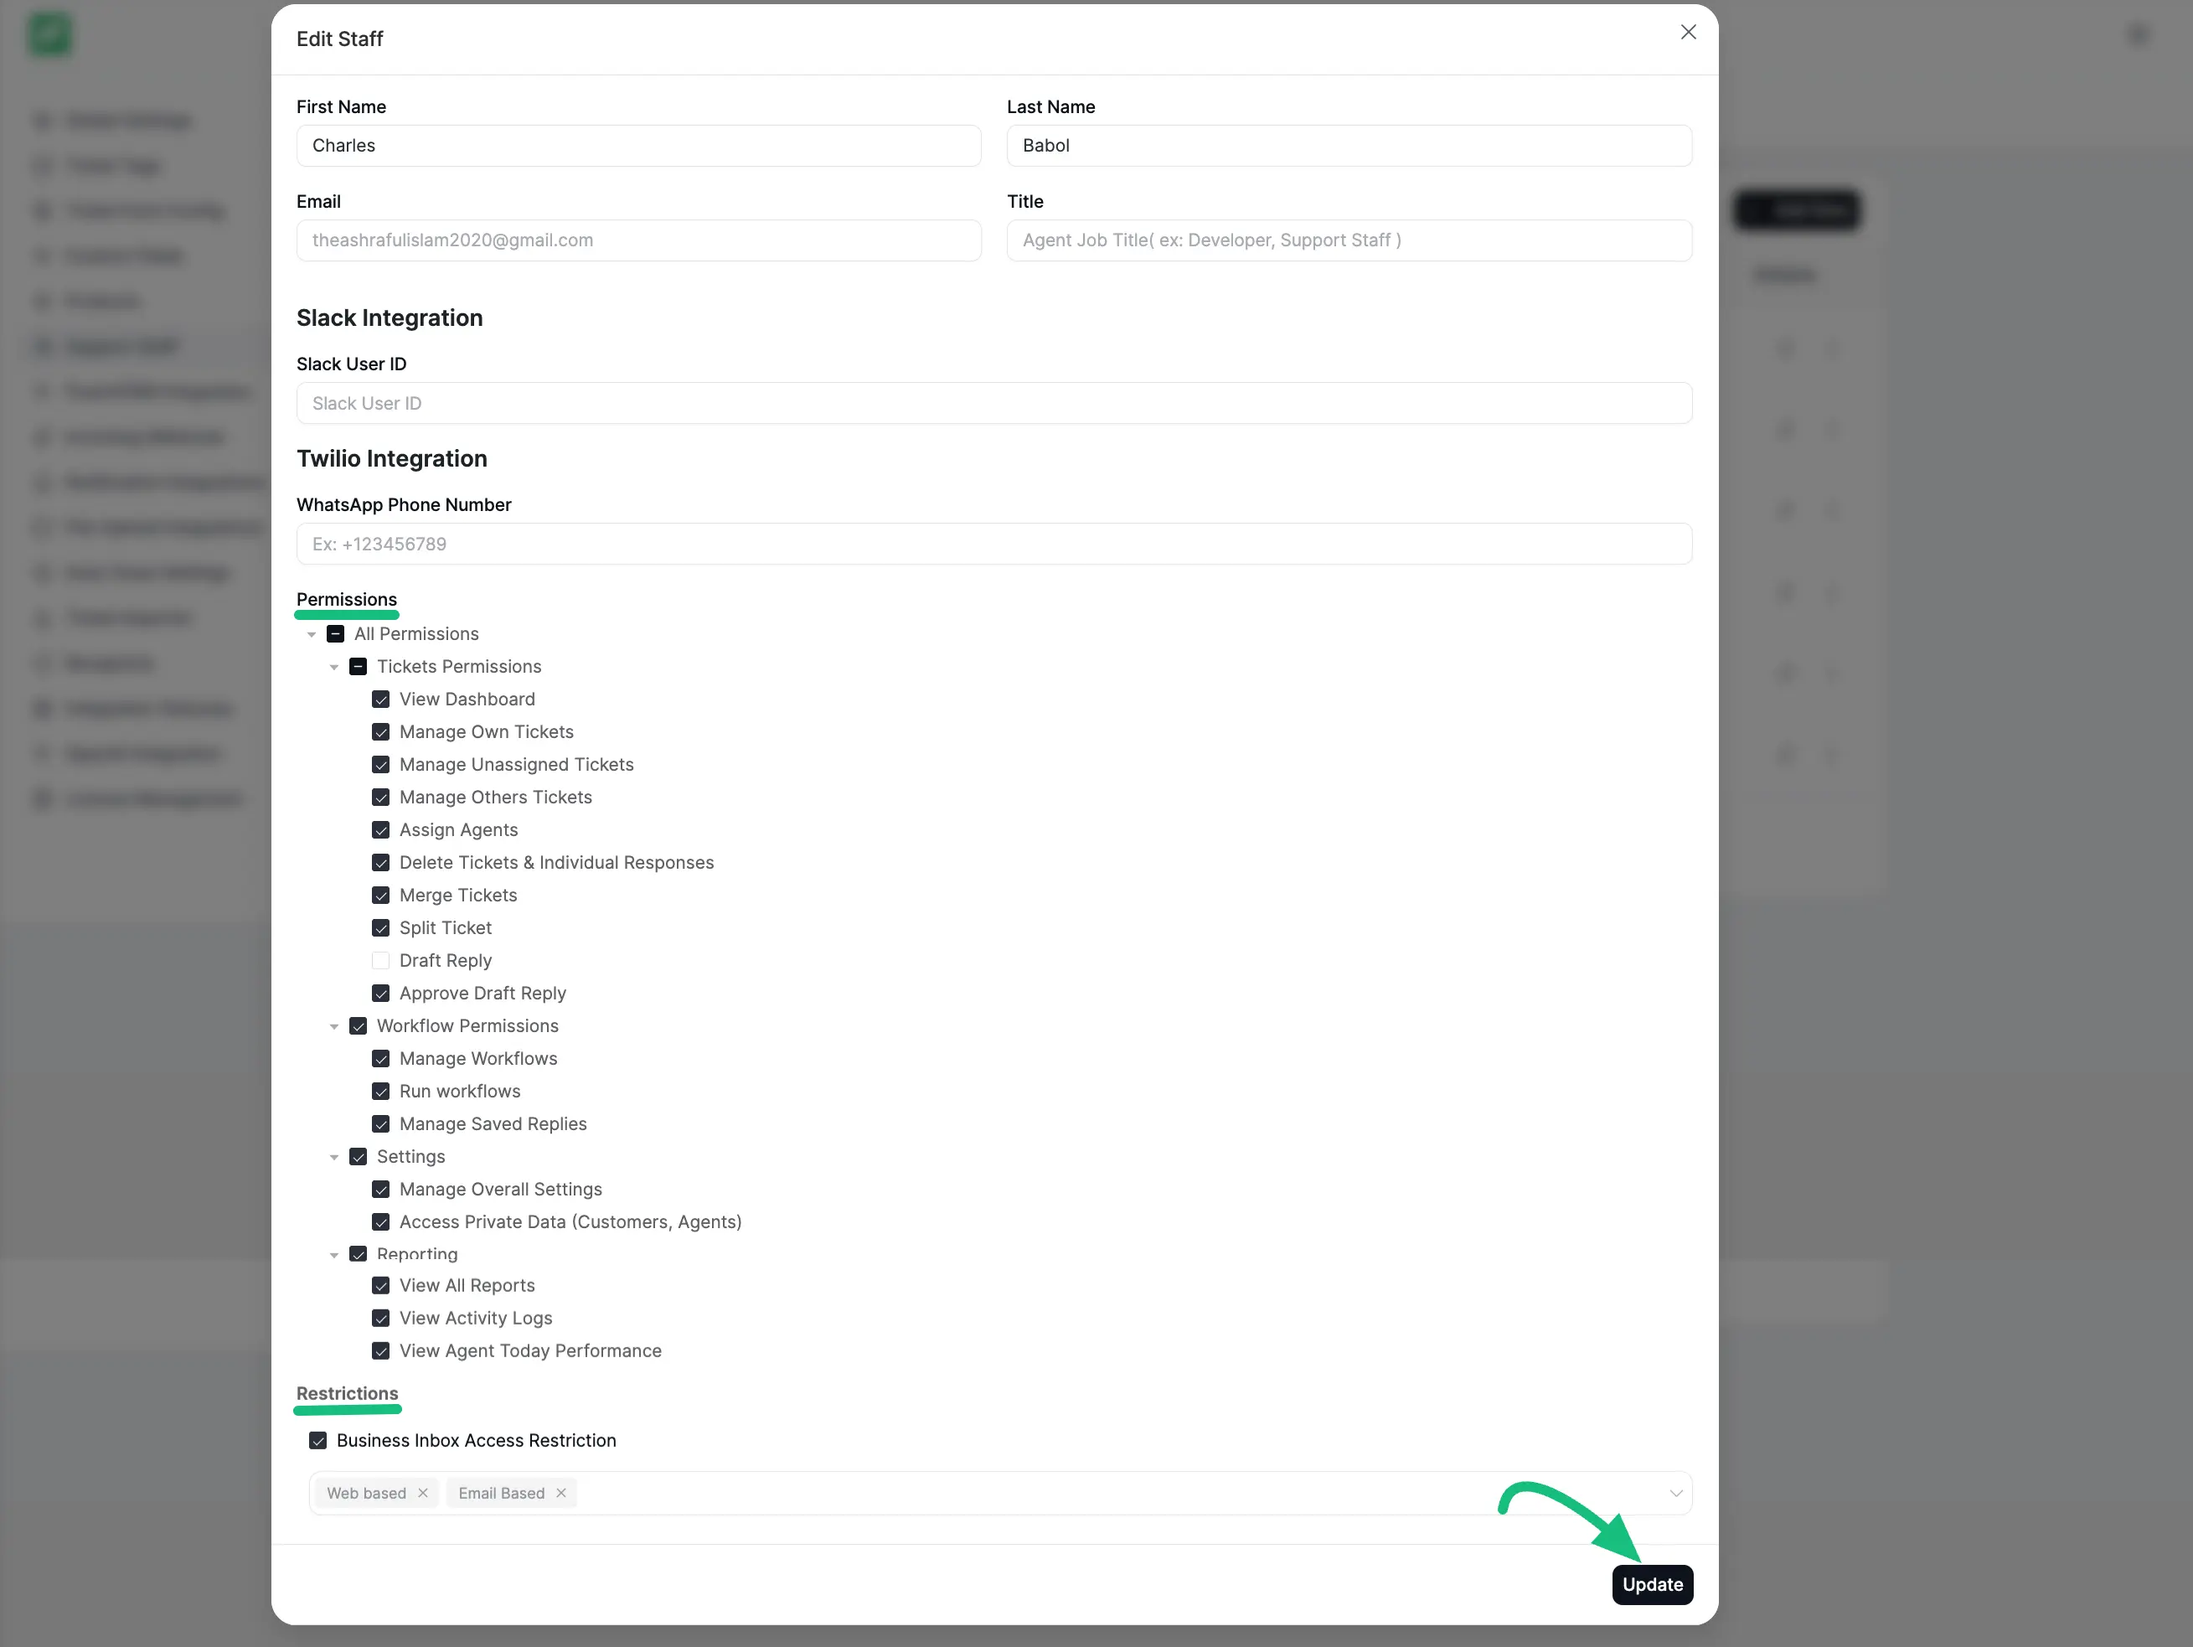
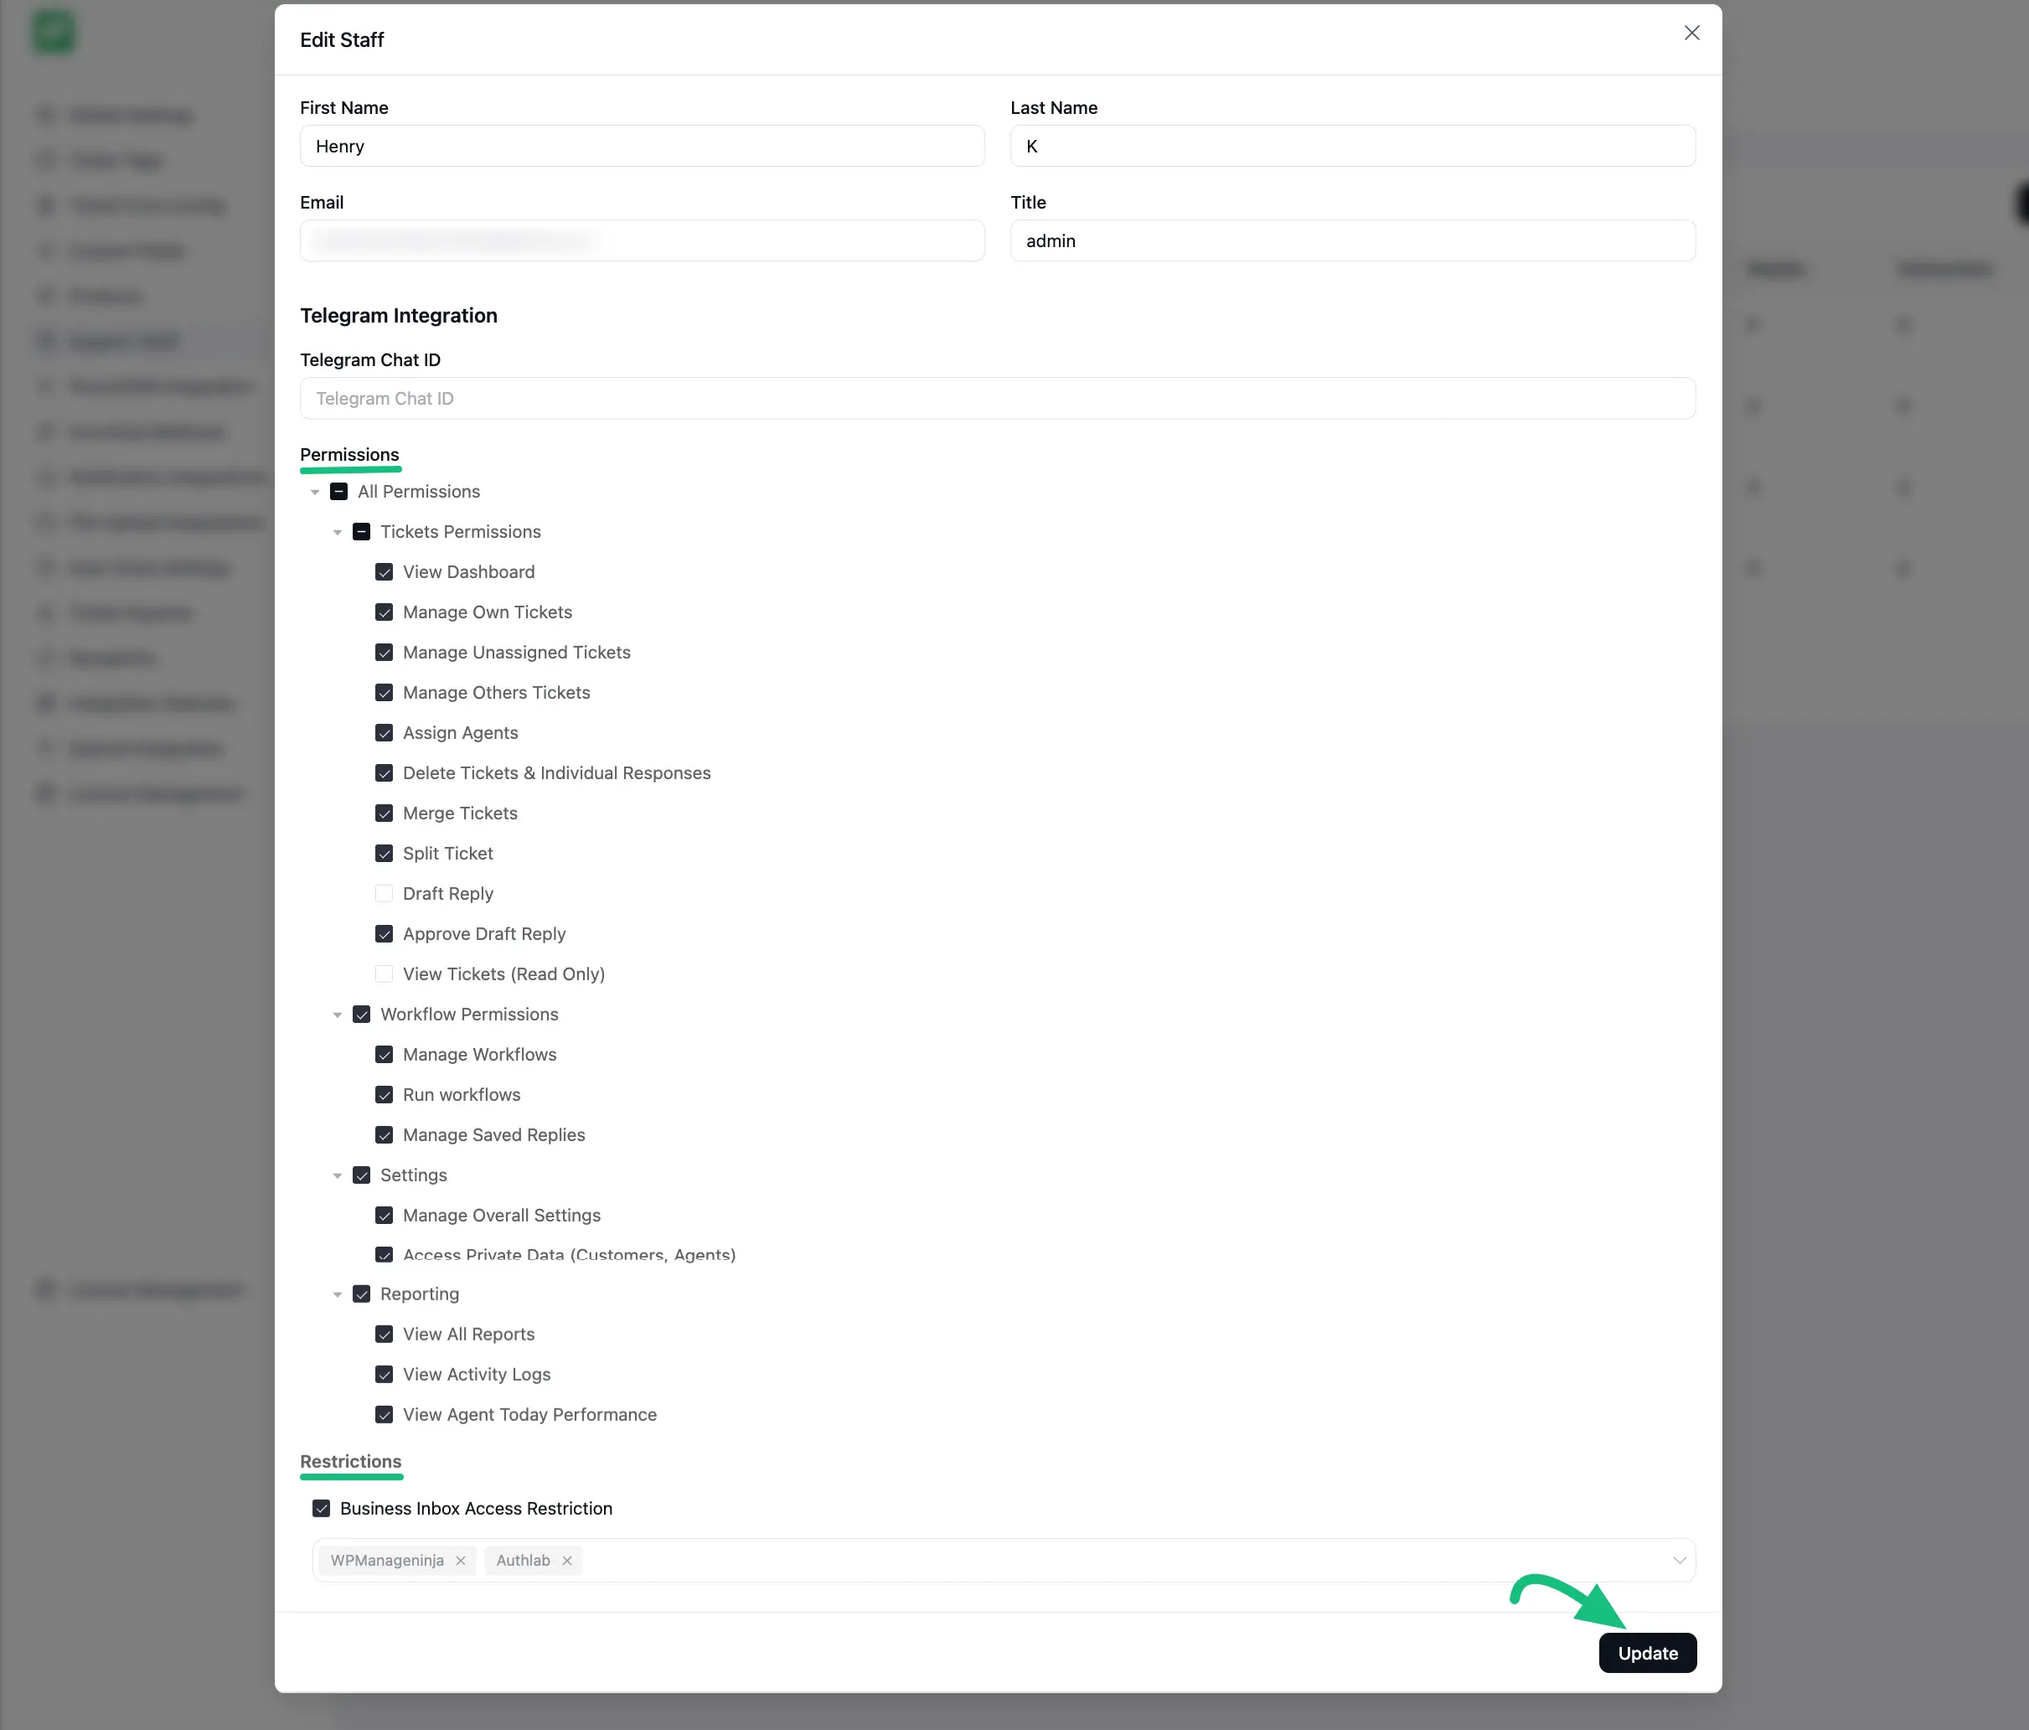
Permission Management for Agents doc update

diff --git a/docs/setup-configuration/permission-management-for-agents.md b/docs/setup-configuration/permission-management-for-agents.md
@@ -16,6 +16,7 @@ Once you are done, hit the **Update** button to save all changes.
 
 ![Permissions for Agents](/images/setup-configuration/agents-permissions/permission-management-for-agent/permissions-for-agents-1-1.webp)
 
+
 **A brief explanation of all the above-mentioned Permissions –**
 
 ### Tickets Permissions 
@@ -30,6 +31,7 @@ Once you are done, hit the **Update** button to save all changes.
   * **Split Tickets:** Gives the permission to split the tickets.
   * **Draft Reply:** Using this permission, agents can keep their replies as draft.
   * **Approved Draft Reply:** This permission allows agents to approve other agents’ draft replies.
+  * **View Tickets (Read Only):** This allows the agent to view the contents of tickets without having the ability to reply, edit, or modify them.
 
 ### Workflow Permissions 
 
